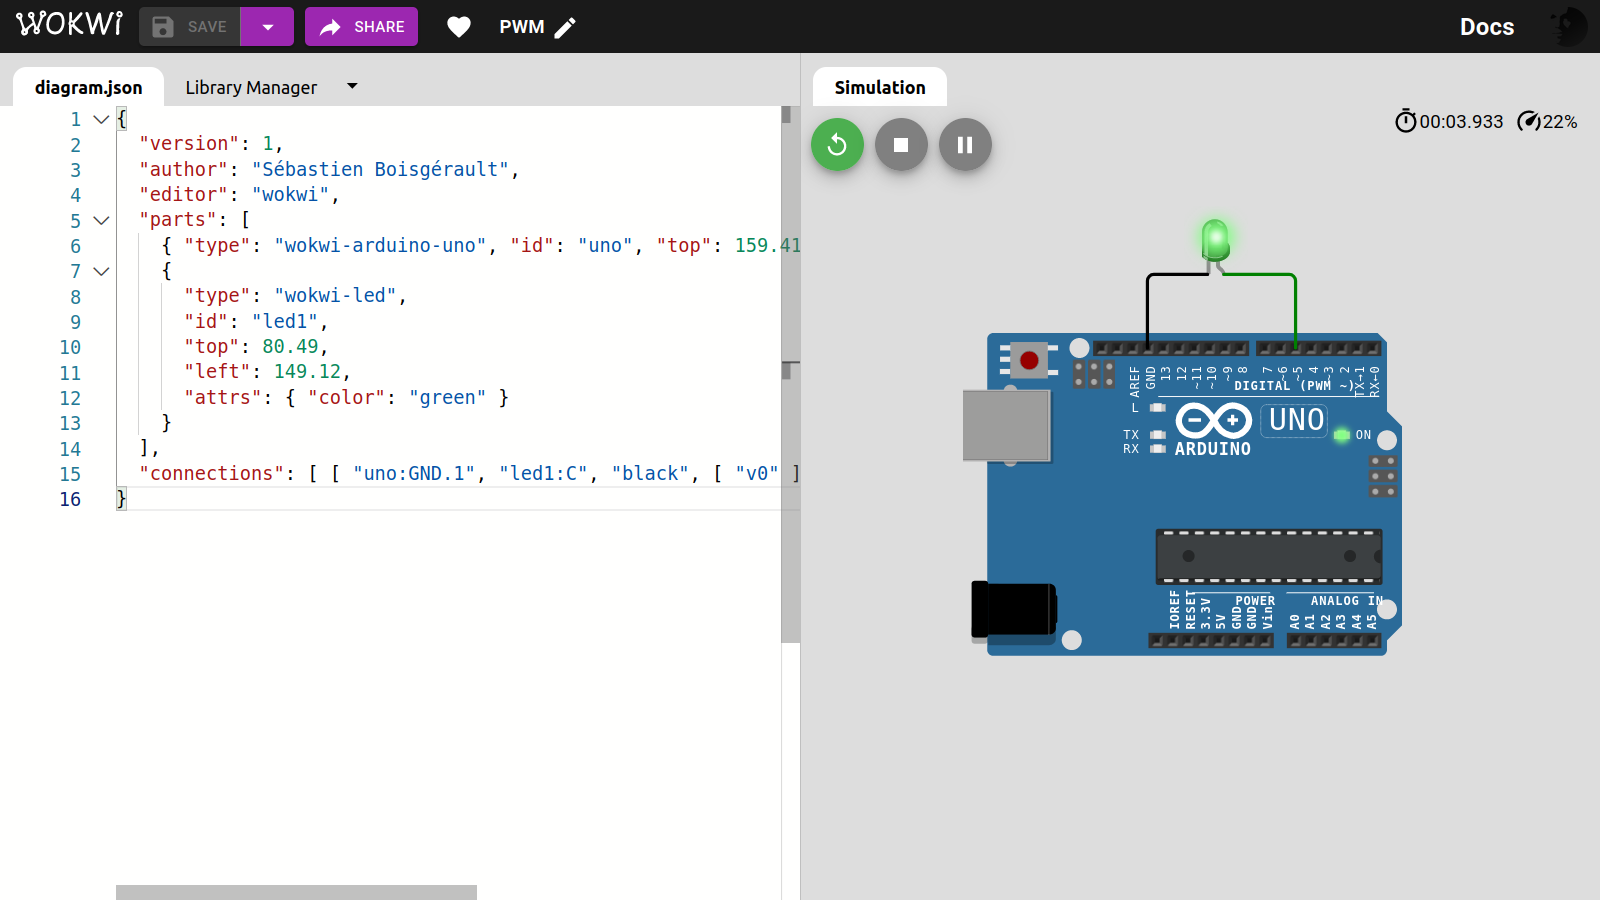
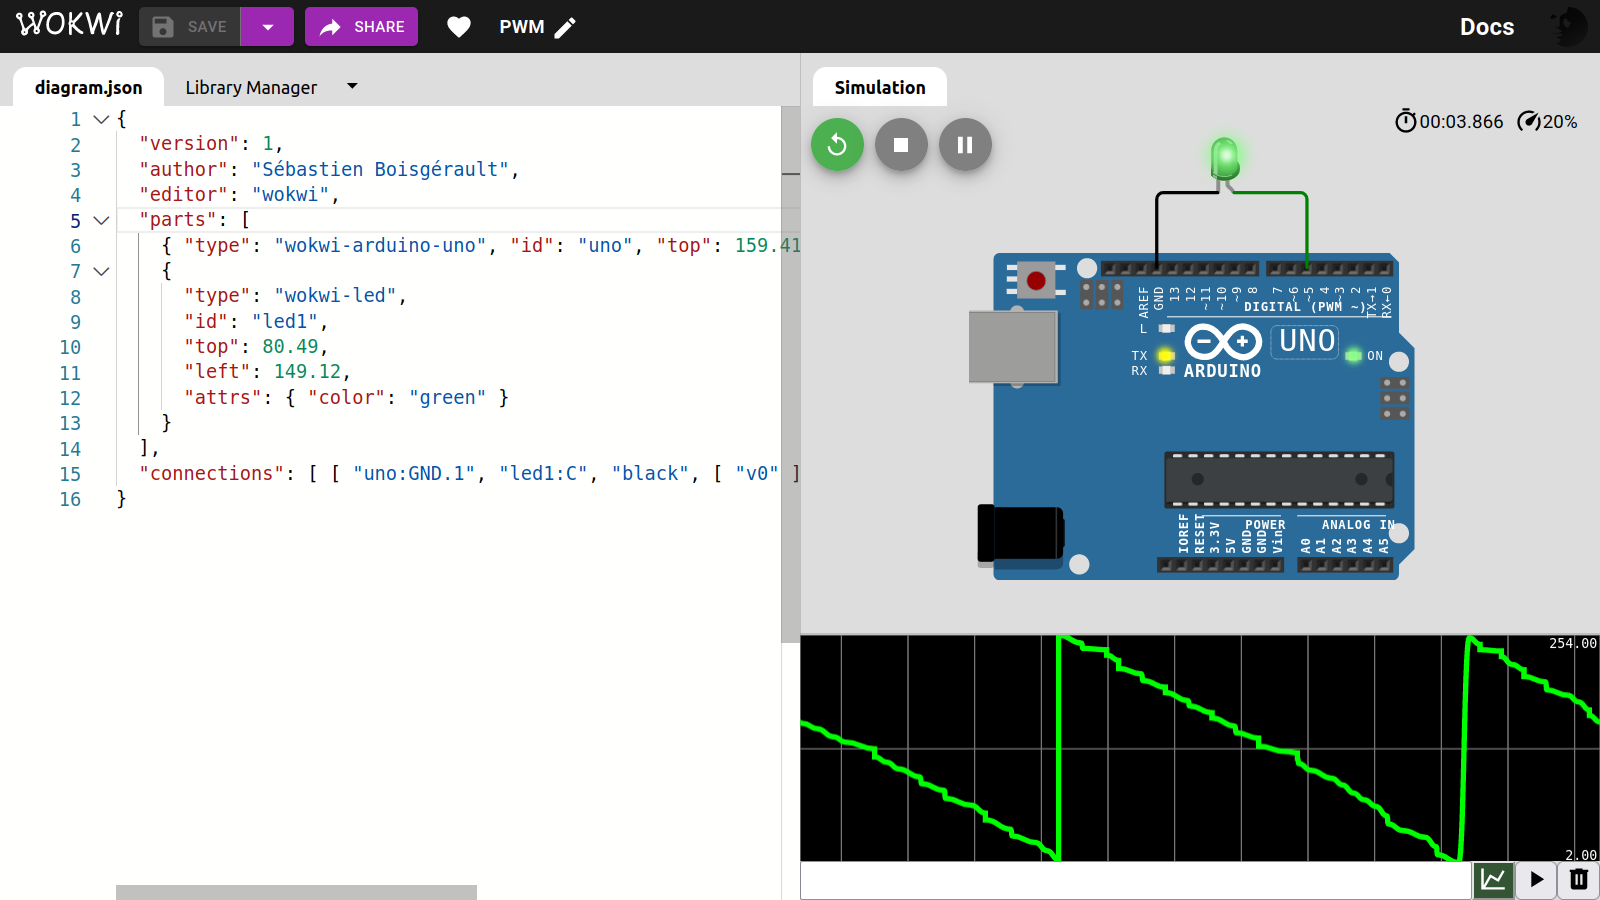
💄 Polish PWM section

diff --git a/PWM/app.go b/PWM/app.go
@@ -7,10 +7,12 @@ import (
 
 var pwm machine.PWM
 var pwmPin = machine.D5
+var period uint64
 var ch uint8
 
 func setup() {
 	pwm.Configure(machine.PWMConfig{})
+	period = pwm.Period() // 16_000 ns
 	var err error
 	ch, err = pwm.Channel(pwmPin)
 	if err != nil {
@@ -20,14 +22,15 @@ func setup() {
 
 func main() {
 	setup()
-	x := pwm.Top()
+	top := pwm.Top()
+	x := top
 	for {
+		println(x)
 		pwm.Set(ch, x)
-		x = x * 9 / 10
+		x = x - top/100
 		if x == 0 {
-			x = pwm.Top()
+			x = top
 		}
-		// PWM period is 16 ms
-		time.Sleep(100 * time.Millisecond)
+		time.Sleep(10 * time.Duration(period))
 	}
 }

diff --git a/README.md b/README.md
@@ -423,35 +423,38 @@ See [Using PWM](https://tinygo.org/docs/tutorials/pwm/).
 package main
 
 import (
-	"machine"
-	"time"
+    "machine"
+    "time"
 )
 
 var pwm machine.PWM
 var pwmPin = machine.D5
+var period uint64
 var ch uint8
 
 func setup() {
-	pwm.Configure(machine.PWMConfig{})
-	var err error
-	ch, err = pwm.Channel(pwmPin)
-	if err != nil {
-		panic(err)
-	}
+    pwm.Configure(machine.PWMConfig{})
+    period = pwm.Period() // 16_000 ns
+    var err error
+    ch, err = pwm.Channel(pwmPin)
+    if err != nil {
+        panic(err)
+    }
 }
 
 func main() {
-	setup()
-	x := pwm.Top()
-	for {
-		pwm.Set(ch, x)
-		x = x * 9 / 10
-		if x == 0 {
-			x = pwm.Top()
-		}
-		// PWM period is 16 ms
-		time.Sleep(100 * time.Millisecond)
-	}
+    setup()
+    top := pwm.Top()
+    x := top
+    for {
+        println(x)
+        pwm.Set(ch, x)
+        x = x - top/100
+        if x == 0 {
+            x = top
+        }
+        time.Sleep(10 * time.Duration(period))
+    }
 }
 ```
 
